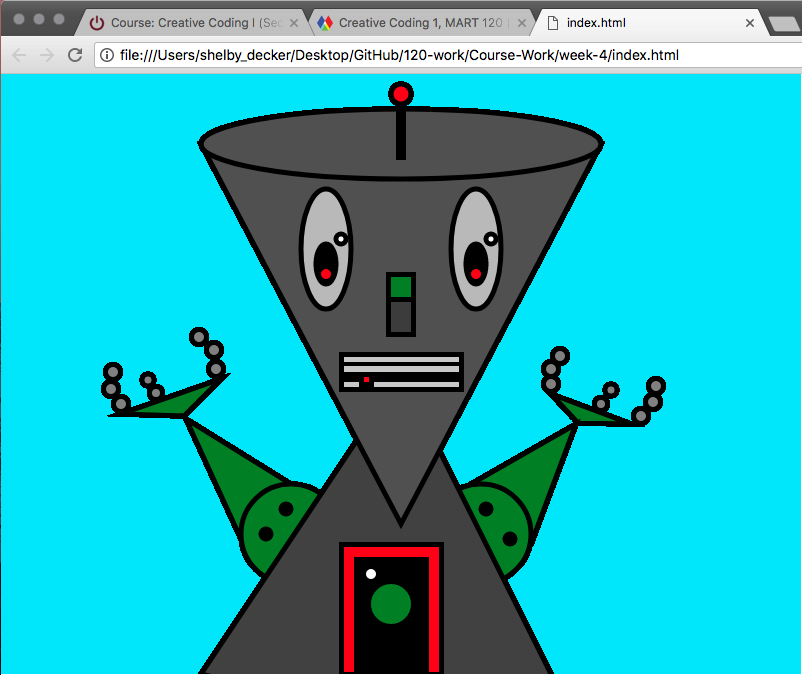
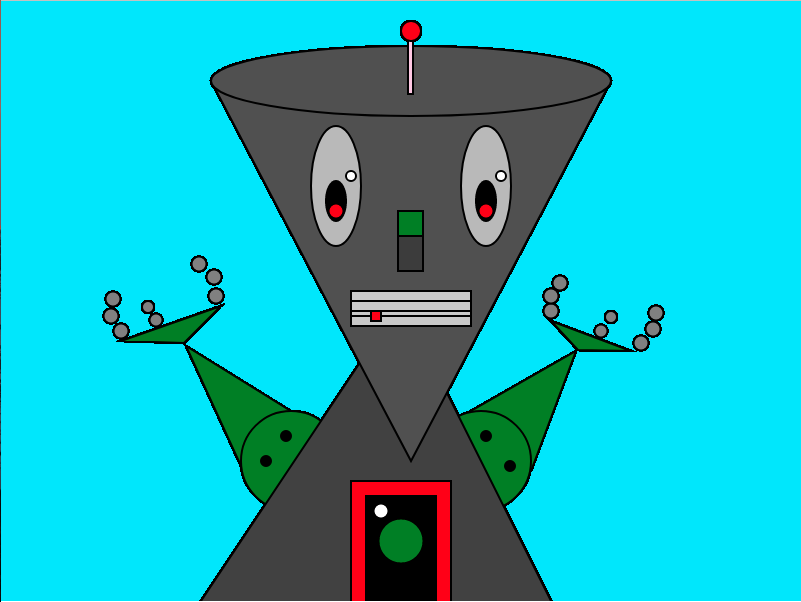
changes week04

Changed region(s): [[0.0, 0.0, 1.0, 1.0]]

diff --git a/Course-Work/week-4/sketch.js b/Course-Work/week-4/sketch.js
@@ -80,6 +80,7 @@ function draw(){
 //robot body (slightly (darker) color)
   fill(65, 65, 65);
   triangle(600, 700, 400, 300, 200, 600);
+  translate(10, 10),
 
 //accessory pannel accent (red)
   fill('red');
@@ -148,13 +149,13 @@ function draw(){
   fill(200, 200, 200);
   rect( 340, 280, 120, 35);
 //mouth stroke shading (bottom)
-  strokeWeight(5);
+//  strokeWeight(3);
   line( 340, 305, 459, 305 );
 //mouth stroke shading (top)
-  strokeWeight(4);
+//  strokeWeight(4);
   line( 340, 290, 459, 290 );
 //mouth stroke shading (middle)
-    strokeWeight (5);
+    strokeWeight (2);
     line( 340, 300, 459, 300 );
 //Red accent
   fill ('red');
